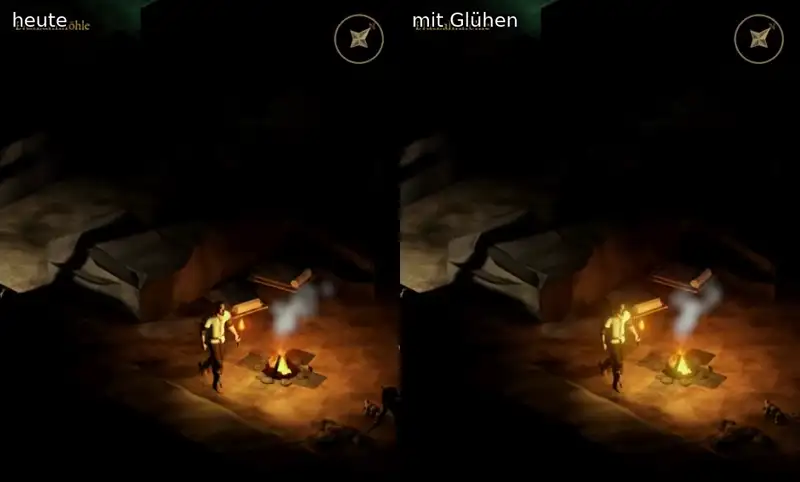
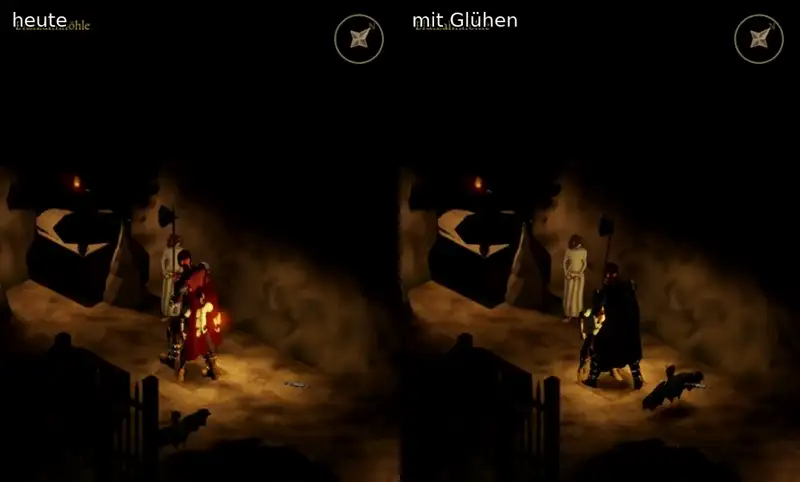
Spike: 1270.4 Vorlage mit Homers Stilblick und Schwelle 0,9
Claude-Session: https://claude.ai/code/session_01Hmoj77BPLCjmVvbzkxDtiX

diff --git a/docs/chefsache/ansehen/1270.4-licht.md b/docs/chefsache/ansehen/1270.4-licht.md
@@ -1,7 +1,7 @@
 # 1270.4 · Glühen und vorberechnetes Höhlenlicht: heute gegen neu · Spike · 16.11.
 E Technik · Spike · 16.11. · aus 1270 A (15.11., 10:51) und deinem Wort 22:43 („Da wäre jetzt, glaube ich, wieder ein Film gut“)
 
-Geprüft an: `ba758ac03` (`claude/spike-1270-4-gluehen`, Stand Build 293 mit Belichtung 1303), Film am Rechner im Renderer mobile
+Geprüft an: `0445178b9` (`claude/spike-1270-4-gluehen`, Stand Build 293 mit Belichtung 1303), Film am Rechner im Renderer mobile
 
 Zwei Filme, je links heute, rechts neu; derselbe Weg mit Fackel durch die Blutzahnhöhle: Lager am Lagerfeuer, Graks Halle, Westflügel mit Kristallen und Leuchtpilzen. Die Gegner laufen in beiden Hälften nicht gleich (Zufall), das Licht ist der Prüfgegenstand.
 
@@ -13,6 +13,8 @@ Zwei Filme, je links heute, rechts neu; derselbe Weg mit Fackel durch die Blutza
 
 ![Höhlenlicht](../bilder/1270.4-hoehlenlicht.webp)
 
-Offen: Gold glänzt nirgends in der Höhle so hell, dass es glühen würde; Zauber im Kampfort sind gezeichnete Bilder über der Szene, das Glühen erreicht sie nicht.
+Homer (16.11., 16:26, nur Stil): bricht beides den Stil nicht; Glühen nur an Feuer, Glut, Kristallen, Pilzen, nie an angestrahltem Stahl, Leder, Stoff (Signatur 3); im ersten Stand schien das Hemd des Helden an der Fackel mit, darum Schwelle höher (0,9), jetzt glüht nur die Flamme. Höhlenlicht: Farbe von sichtbaren Quellen, das Blauschwarz außerhalb der Lichtkreise bleibt.
+
+Offen: eine Klinge direkt an der Fackel (Homer) zeigt der Film nicht, der Held trägt hier keine sichtbare Waffe. Gold glänzt nirgends in der Höhle so hell, dass es glühen würde; Zauber im Kampfort sind gezeichnete Bilder über der Szene, das Glühen erreicht sie nicht.
 
 👍 passt: ins Spiel (Glühen ab Grafikstufe Hoch, Höhlenlicht immer) · 👎 falsch: bleibt, wie es ist
